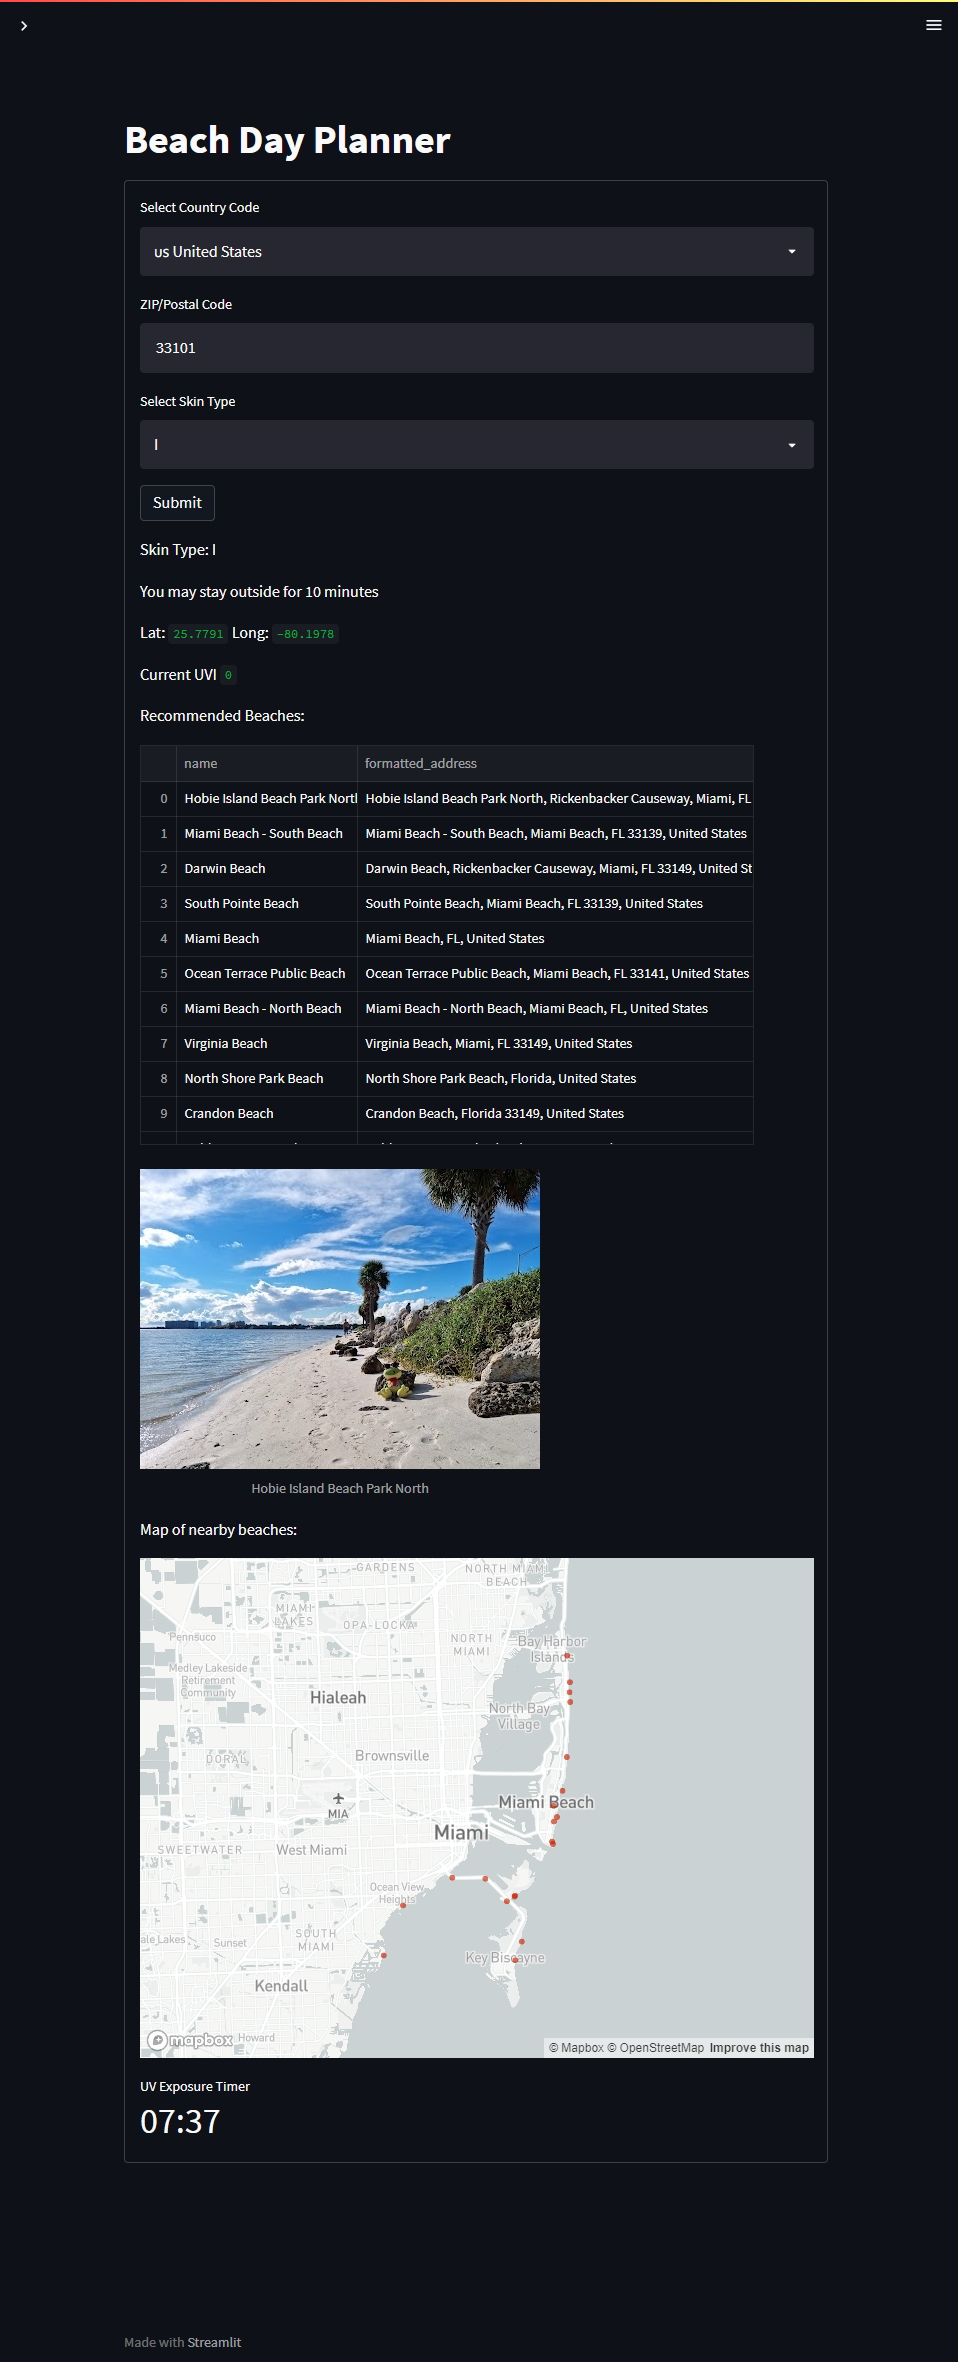
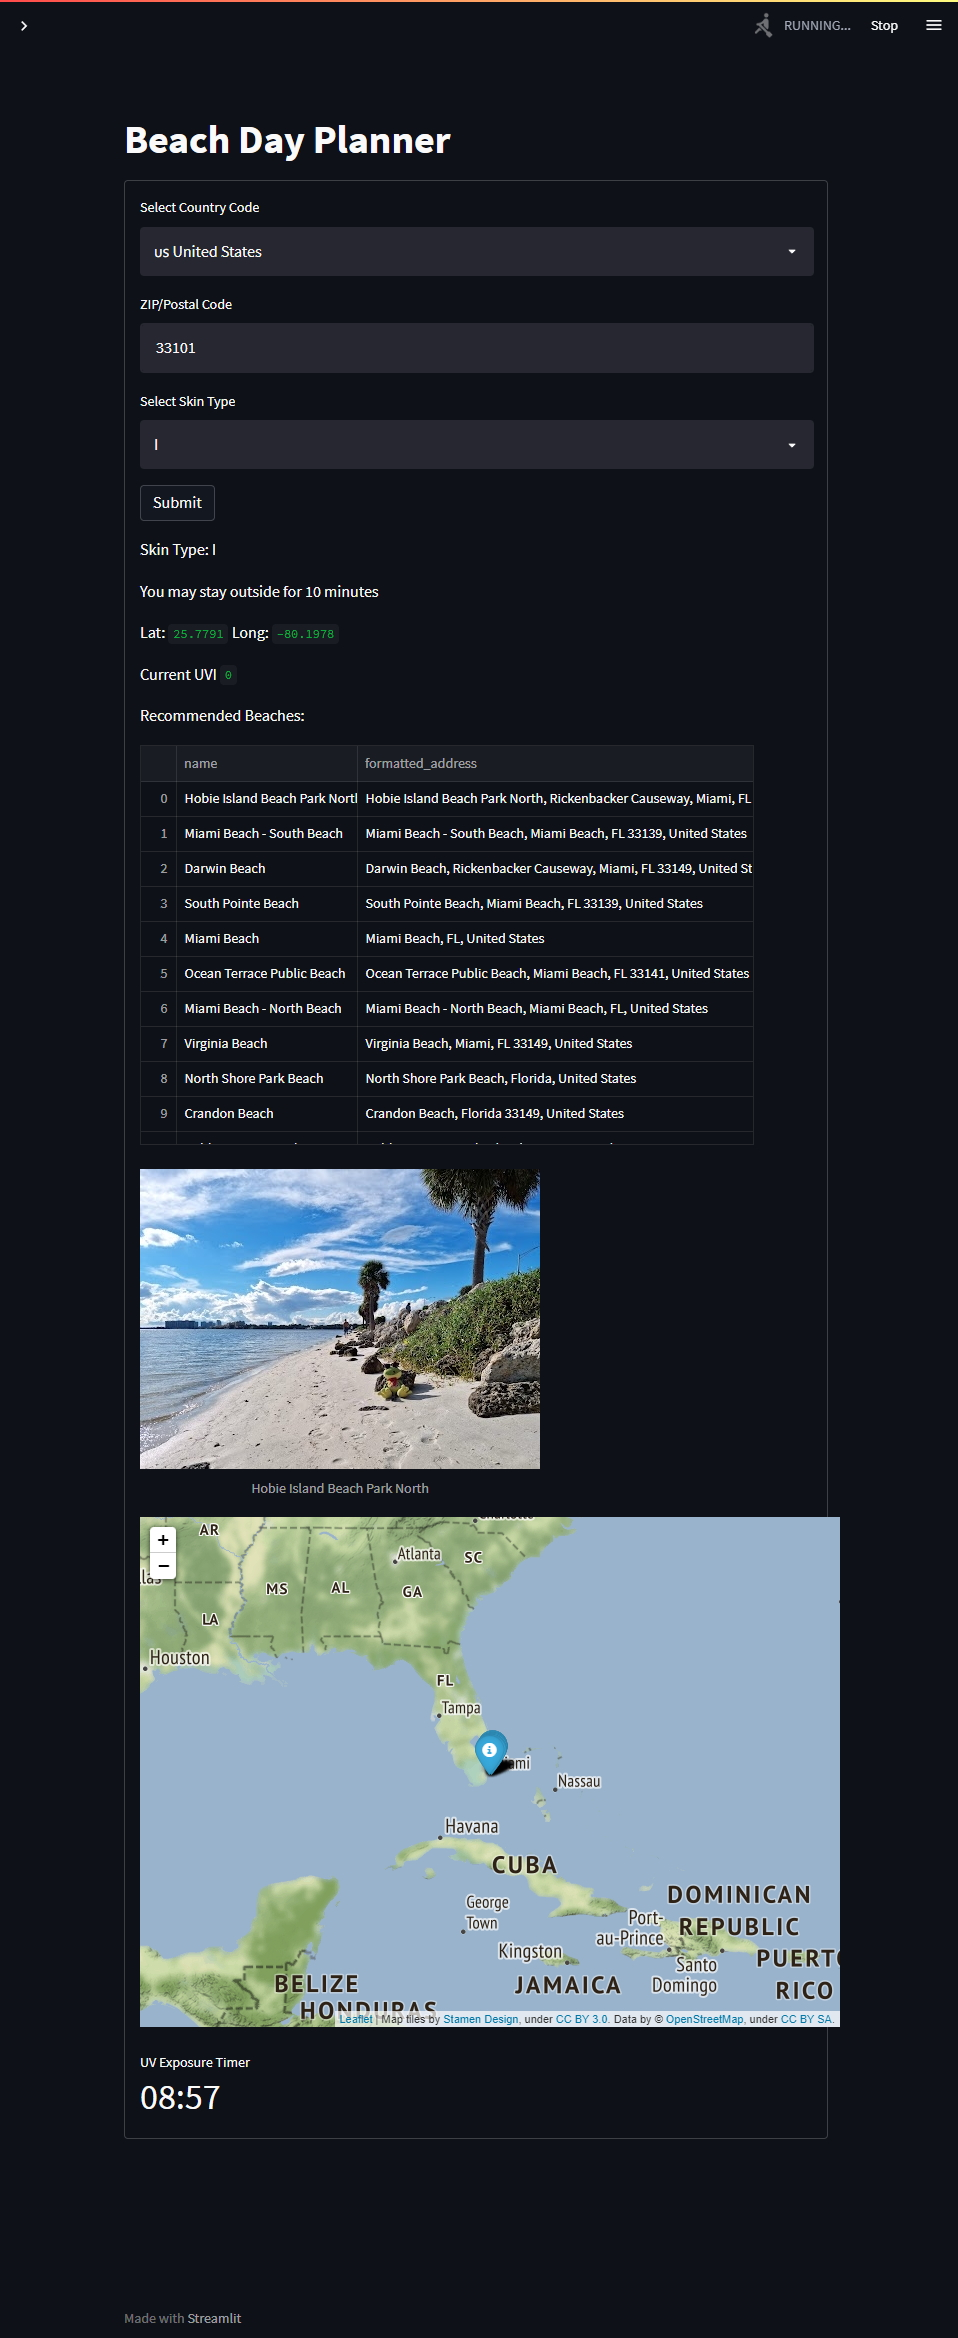
Rearranged content

Changed region(s): [[0.1211, 0.0624, 0.8779, 0.9055]]

diff --git a/UV.py b/UV.py
@@ -11,7 +11,7 @@ import pgeocode
 import folium
 import time
 from PIL import Image
-import numpy as np
+
 
 def determineSkinType():
     st.title('Determine Skin Type')
@@ -58,7 +58,9 @@ def location_image(country: str, zip_code: str):
     nomi = pgeocode.Nominatim(country=country)
     location = nomi.query_postal_code(zip_code)
     google_crawler = GoogleImageCrawler(storage={'root_dir': './images/'})
-    google_crawler.crawl(keyword=location['community_name'], max_num=1, overwrite=True)
+    google_crawler.crawl(
+        keyword=location['community_name'], max_num=1, overwrite=True)
+
 
 def mainPage():
     st.title('Beach Day Planner')
@@ -110,17 +112,24 @@ def mainPage():
             st.write("Current UVI", data['current.uvi'][0])
             st.write("Recommended Beaches: ")
 
+            st.write(pd.json_normalize(placeData['results'][0])[
+                     ['name', 'formatted_address']])
 
-            st.write(pd.json_normalize(placeData['results'][0])[['name', 'formatted_address']], pd.json_normalize(pd.json_normalize(placeData['results'][0])['photos'].iloc[1:20]))
-            # location_image(country=country, zip_code=zip_code)
-            # st.image(image='./images/000001.jpg')
+            # display image
+            imgURL = "https://maps.googleapis.com/maps/api/place/photo?maxwidth=400&photo_reference={}&key={}".format(
+                placeData['results'][0][0]['photos'][0]['photo_reference'], st.secrets["google_key"])
+            image = Image.open(re.get(imgURL, stream=True).raw)
+            st.image(image, caption=placeData['results'][0][0]['name'])
 
             # mapping
             names = pd.json_normalize(placeData['results'][0])['name'].tolist()
-            lat_list = pd.json_normalize(placeData['results'][0])['geometry.location.lat'].tolist()
-            lng_list = pd.json_normalize(placeData['results'][0])['geometry.location.lng'].tolist()
+            lat_list = pd.json_normalize(placeData['results'][0])[
+                'geometry.location.lat'].tolist()
+            lng_list = pd.json_normalize(placeData['results'][0])[
+                'geometry.location.lng'].tolist()
 
-            m = folium.Map(location=np.asarray(a=list([lat, long])), zoom_start=5, tiles='Stamen Terrain')
+            m = folium.Map(location=np.asarray(
+                a=list([lat, long])), zoom_start=5, tiles='Stamen Terrain')
             for name, lat, lng in list(zip(names, lat_list, lng_list)):
                 # st.write(location)
                 folium.Marker(
@@ -129,25 +138,6 @@ def mainPage():
                     icon=folium.Icon(color='blue', icon="info-sign"),
                 ).add_to(m)
             stf.folium_static(fig=m)
-
-            # display image
-            imgURL = "https://maps.googleapis.com/maps/api/place/photo?maxwidth=400&photo_reference={}&key={}".format(
-                placeData['results'][0][0]['photos'][0]['photo_reference'], st.secrets["google_key"])
-            image = Image.open(re.get(imgURL, stream=True).raw)
-            st.image(image, caption=placeData['results'][0][0]['name'])
-
-            # mapData = {
-            #     'name': [],
-            #     'lat': [],
-            #     'lon': []
-            # }
-            # for each in placeData['results'][0]:
-            #     mapData['name'].append(each['name'])
-            #     mapData['lat'].append(each['geometry']['location']['lat'])
-            #     mapData['lon'].append(each['geometry']['location']['lng'])
-            # st.write("Map of nearby beaches:")
-            # df = pd.DataFrame(mapData)
-            # st.map(df)
 
             timer = st.empty()
             if isinstance(duration, int):
